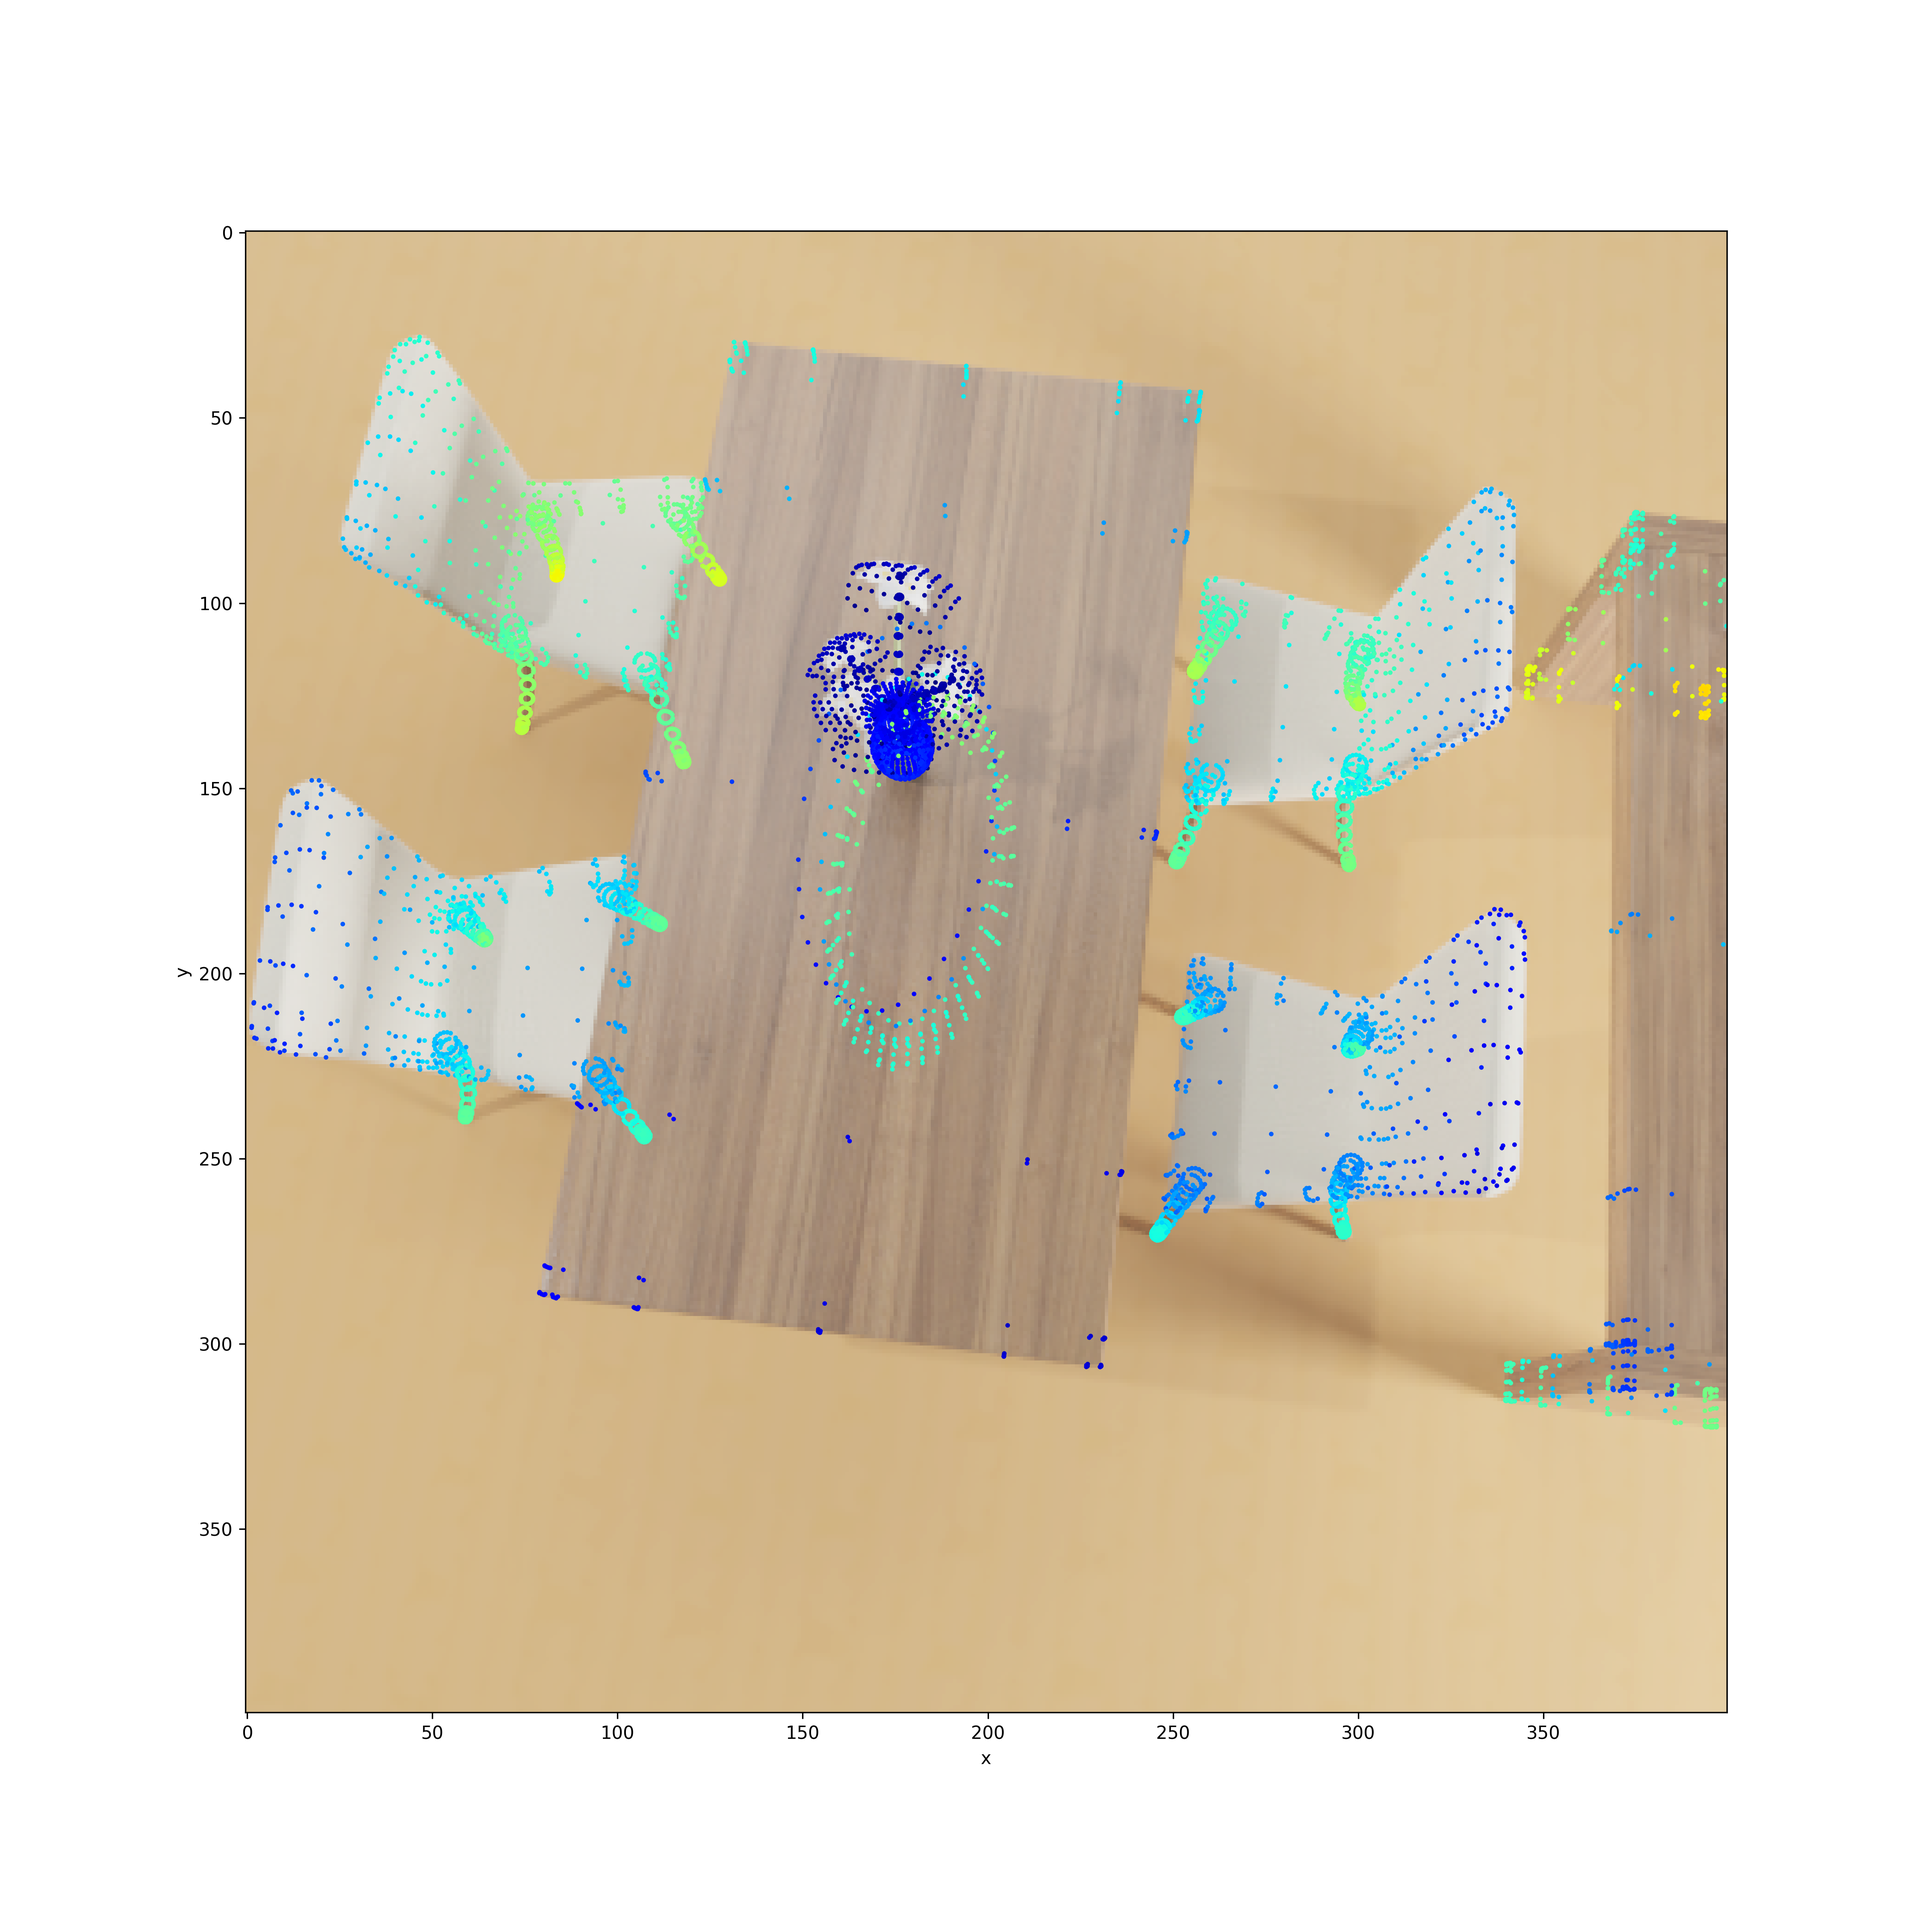
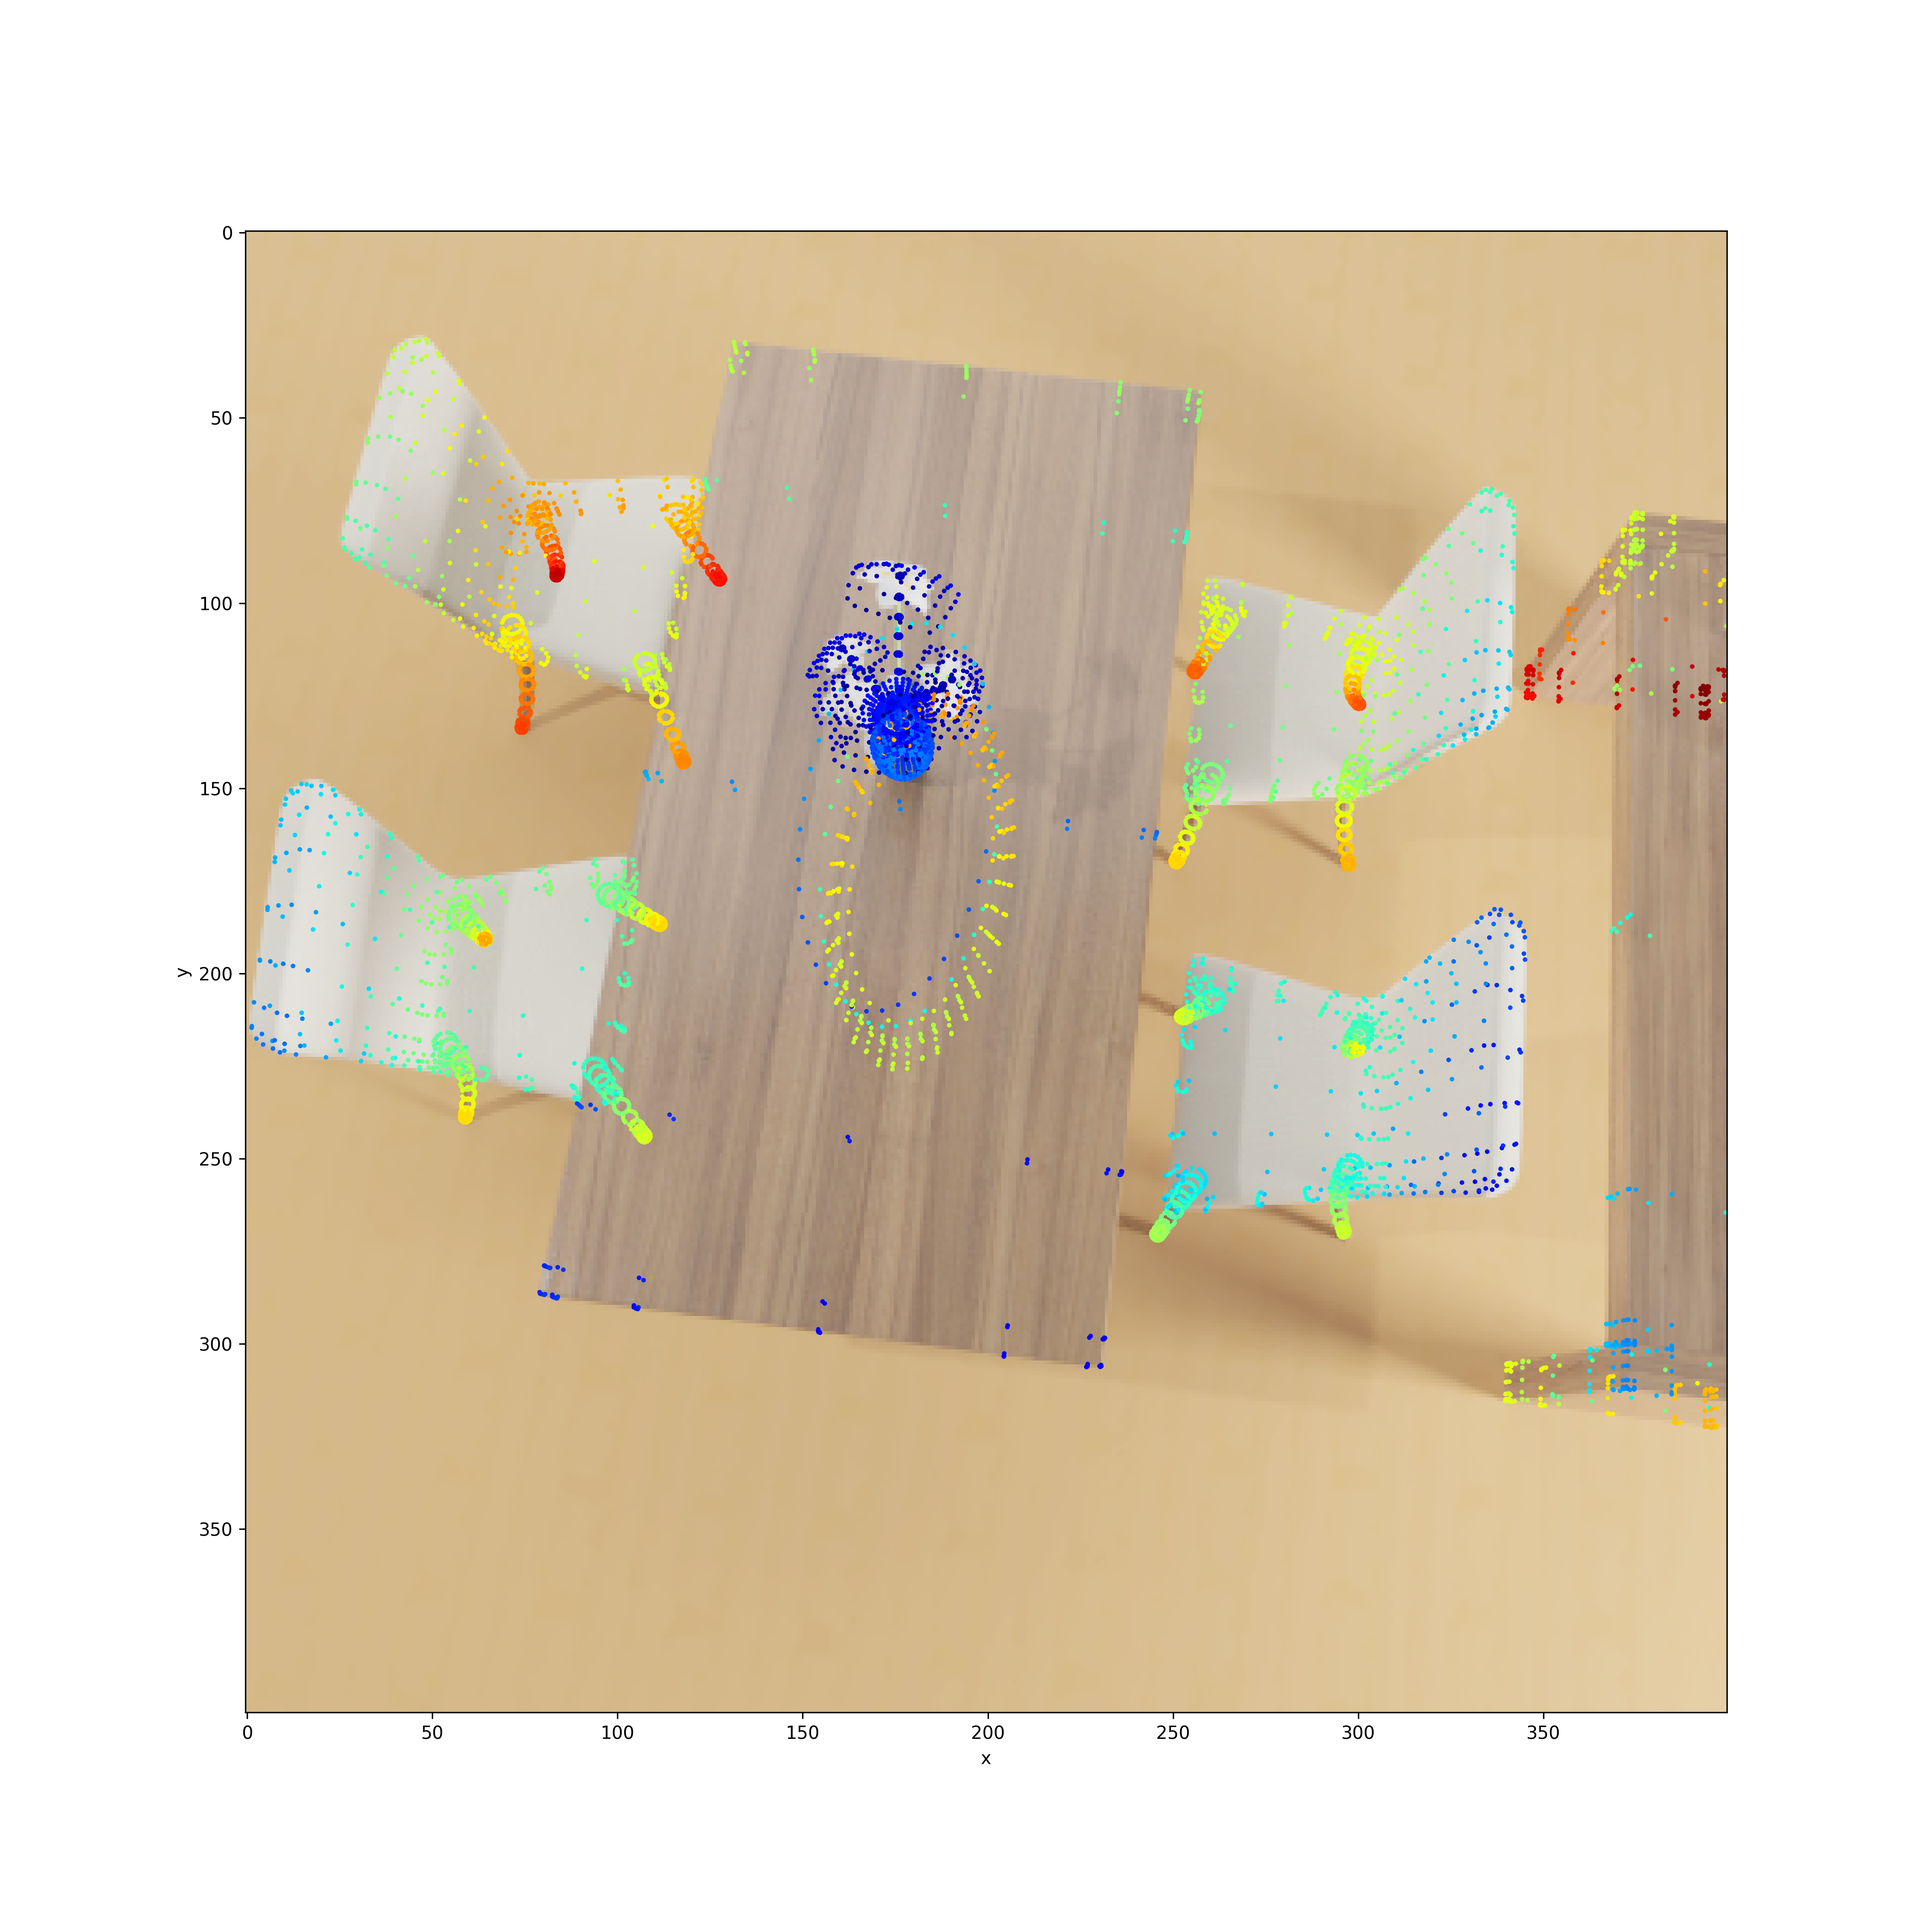
rotated dmsr

diff --git a/tests/train_test_splits.py b/tests/train_test_splits.py
@@ -65,26 +65,26 @@ if __name__ == "__main__":
     else:
         point_cloud = np.array([[0, 0, 0]])
 
-    # # Visualize cameras
-    # fig = plot_cameras(
-    #     mv_data["train"],
-    #     points_3d=point_cloud,
-    #     azimuth_deg=20,
-    #     elevation_deg=30,
-    #     up="y",
-    #     figsize=(15, 15),
-    #     title="training cameras",
-    # )
+    # Visualize cameras
+    fig = plot_cameras(
+        mv_data["train"],
+        points_3d=point_cloud,
+        azimuth_deg=20,
+        elevation_deg=30,
+        up="y",
+        figsize=(15, 15),
+        title="training cameras",
+    )
 
-    # # plt.show()
-    # plt.savefig(
-    #     os.path.join("imgs", f"{dataset_name}_training_cameras.png"),
-    #     transparent=True,
-    #     bbox_inches="tight",
-    #     pad_inches=0,
-    #     dpi=300
-    # )
-    # plt.close()
+    # plt.show()
+    plt.savefig(
+        os.path.join("imgs", f"{dataset_name}_training_cameras.png"),
+        transparent=True,
+        bbox_inches="tight",
+        pad_inches=0,
+        dpi=300
+    )
+    plt.close()
 
     # Visualize cameras
     fig = plot_cameras(
@@ -97,12 +97,12 @@ if __name__ == "__main__":
         title="test cameras",
     )
 
-    plt.show()
-    # plt.savefig(
-    #     os.path.join("imgs", f"{dataset_name}_test_cameras.png"),
-    #     transparent=True,
-    #     bbox_inches="tight",
-    #     pad_inches=0,
-    #     dpi=300
-    # )
-    # plt.close()
+    # plt.show()
+    plt.savefig(
+        os.path.join("imgs", f"{dataset_name}_test_cameras.png"),
+        transparent=True,
+        bbox_inches="tight",
+        pad_inches=0,
+        dpi=300
+    )
+    plt.close()

diff --git a/mvdatasets/loaders/dmsr.py b/mvdatasets/loaders/dmsr.py
@@ -55,8 +55,8 @@ def load_dmsr(
         
     if "rotate_scene_x_axis_deg" not in config:
         if verbose:
-            print("WARNING: rotate_scene_x_axis_deg not in config, setting to 0.0")
-        config["rotate_scene_x_axis_deg"] = 0.0
+            print("WARNING: rotate_scene_x_axis_deg not in config, setting to -90.0")
+        config["rotate_scene_x_axis_deg"] = -90.0
         
     if "scene_scale_mult" not in config:
         if verbose:
